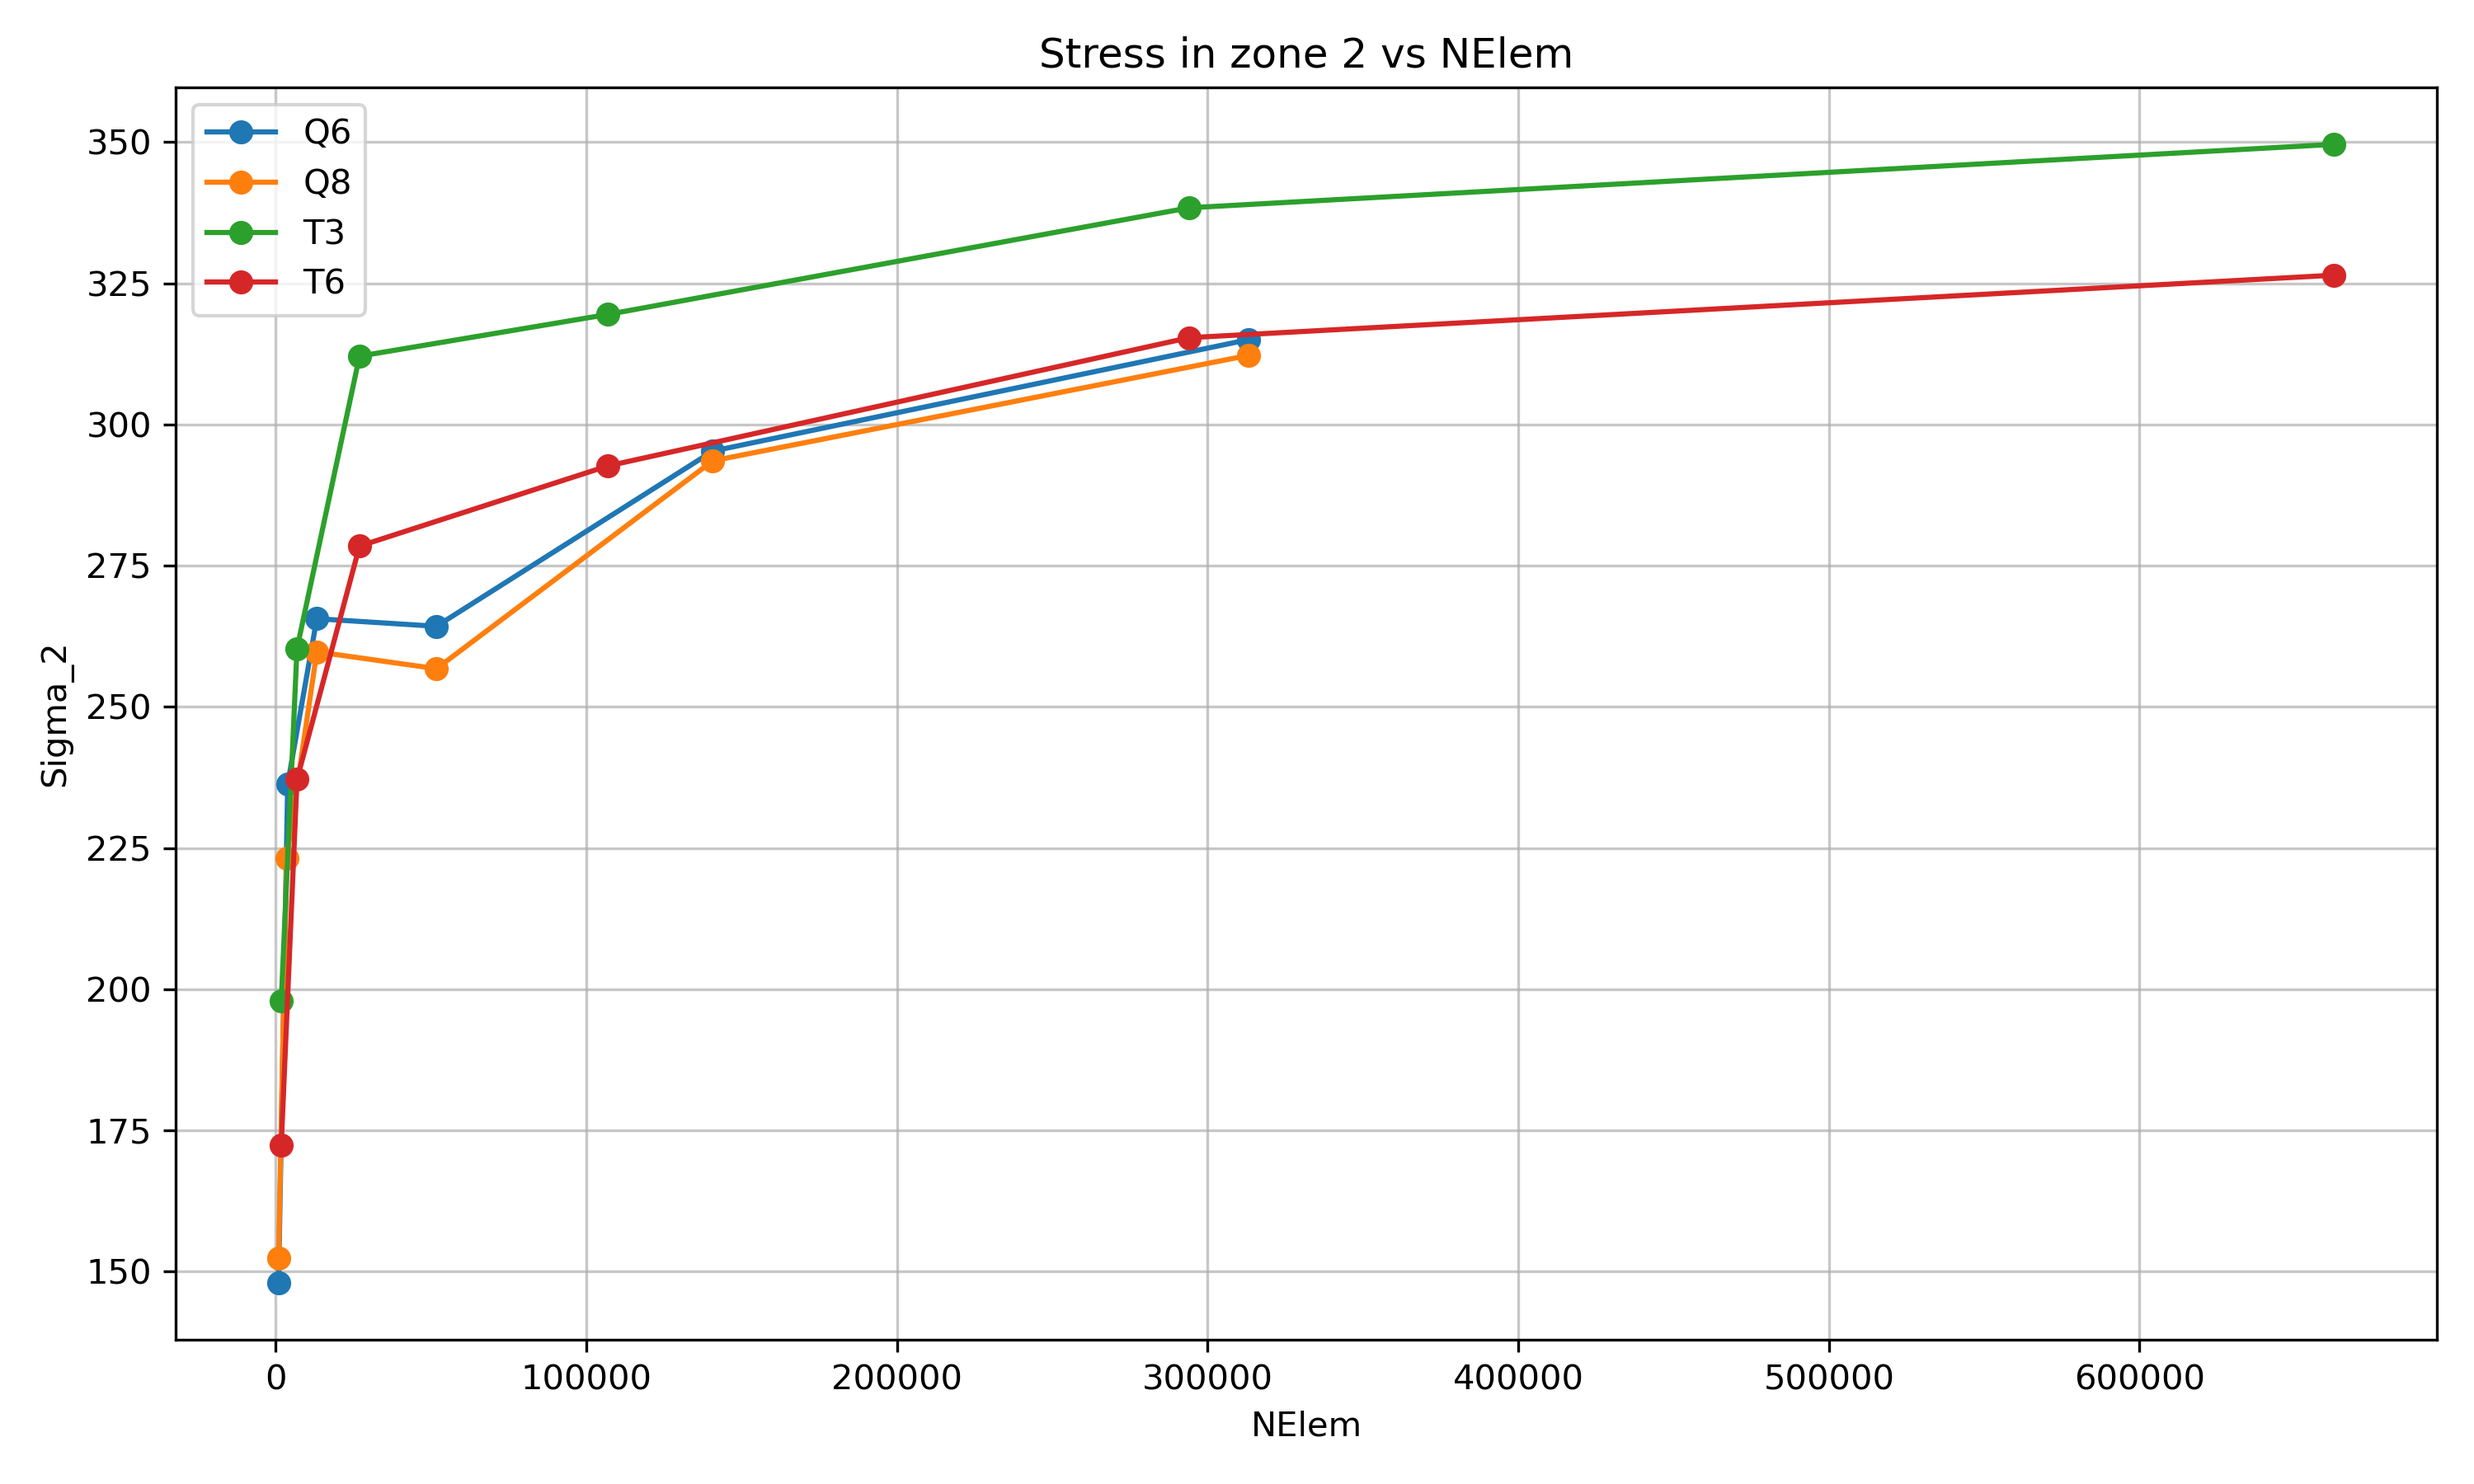
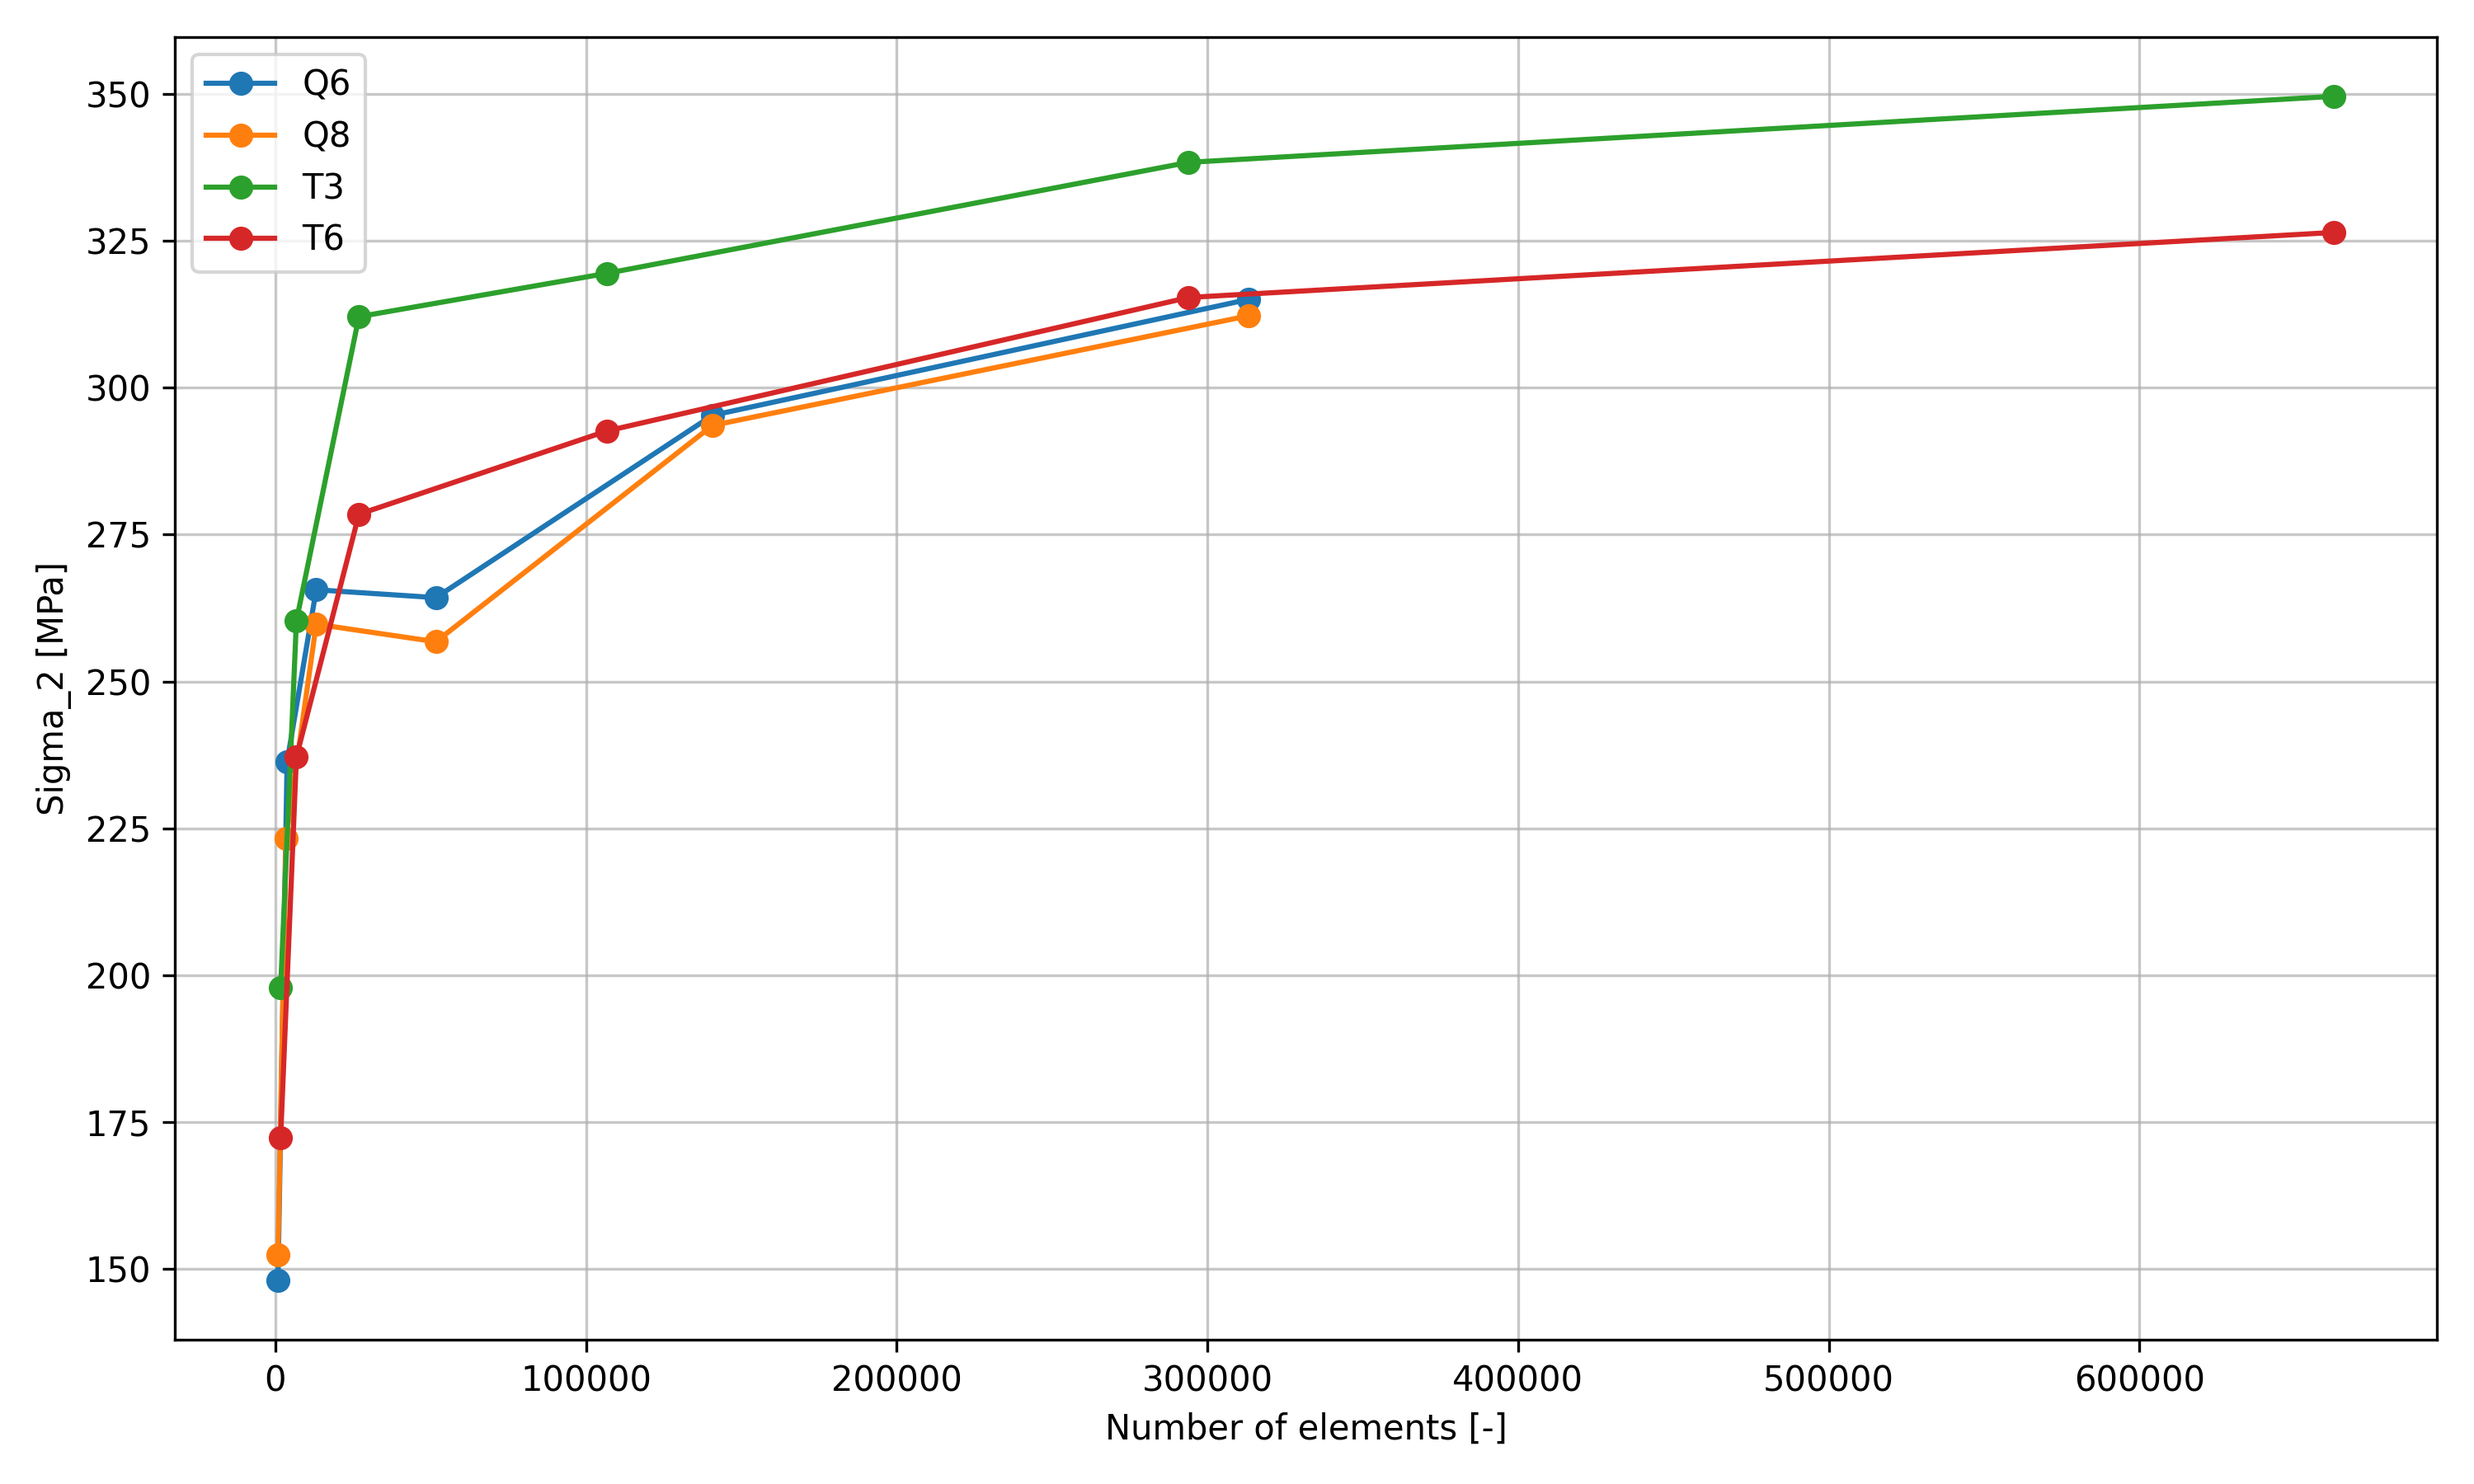
update plotsCSV (axes,titres,...)

diff --git a/2_ FEA coarse meshes/plotCSV.py b/2_ FEA coarse meshes/plotCSV.py
@@ -19,7 +19,7 @@ for folder in folders:
 
 
 # Fonctions de tracé
-def plot_metric(x_key, y_key, ylabel, title, filename, reference_line=None):
+def plot_metric(x_key, y_key,xlabel, ylabel, title, filename, reference_line=None):
     plt.figure(figsize=(10, 6))
     for folder in folders:
         df = data[folder]
@@ -27,9 +27,9 @@ def plot_metric(x_key, y_key, ylabel, title, filename, reference_line=None):
     if reference_line is not None:
         plt.axhline(reference_line, color='gray',
                     linestyle='--', label='Référence')
-    plt.xlabel(x_key)
+    plt.xlabel(xlabel)
     plt.ylabel(ylabel)
-    plt.title(title)
+    #plt.title(title)
     plt.legend()
     plt.grid(True, alpha=0.7)
     plt.tight_layout()
@@ -38,18 +38,19 @@ def plot_metric(x_key, y_key, ylabel, title, filename, reference_line=None):
 
 
 # Tracés demandés
-plot_metric('NElem', 'TPE', 'TPE', "TPE vs NElem", 'TPE_vs_NElem.png')
-plot_metric('NDOF', 'TPE', 'TPE', "TPE vs NDOF", 'TPE_vs_NDOF.png')
-plot_metric('NElem', 'Area', 'Area', "Area vs NElem",
+plot_metric('NElem', 'TPE','Number of elements [-]', 'TPE [J]', "TPE vs NElem", 'TPE_vs_NElem.png')
+plot_metric('NDOF','TPE','Number of degrees of freedom [-]', 'TPE [J]', "TPE vs NDOF", 'TPE_vs_NDOF.png')
+plot_metric('NElem', 'Area','Number of elements [-]', 'Area [$mm^2$]', "Area vs NElem",
             'Area_vs_NElem.png', reference_line=True_area)
-plot_metric('NDOF', 'Area', 'Area', "Area vs NDOF",
+plot_metric('NDOF', 'Area','Number of degrees of freedom [-]', 'Area [$mm^2$]', "Area vs NDOF",
             'Area_vs_NDOF.png', reference_line=True_area)
-plot_metric('NElem', 'CPU', 'CPU (s)', "CPU vs NElem", 'CPU_vs_NElem.png')
-plot_metric('NDOF', 'CPU', 'CPU (s)', "CPU vs NDOF", 'CPU_vs_NDOF.png')
-# plot_metric('CPU', 'TPE', 'TPE', "TPE vs CPU", 'TPE_vs_CPU.png')
+plot_metric('NElem', 'CPU','Number of elements [-]', 'CPU [s]', "CPU vs NElem", 'CPU_vs_NElem.png')
+plot_metric('NDOF', 'CPU','Number of degrees of freedom [-]', 'CPU [s]', "CPU vs NDOF", 'CPU_vs_NDOF.png')
+plot_metric('TPE', 'CPU','TPE [J]', 'CPU [s]', "TPE vs CPU", 'TPE_vs_CPU.png')
+plot_metric('NElem', 'epsilon_max','Number of elements [-]', 'Displacement [mm]','','Displacement_vs_NElem.png')
 
 # Tracés Sigma_i vs NElem (i = 1 à 6)
 for i in range(1, 7):
     sigma_col = f"Sigma_{i}"
-    plot_metric('NElem', sigma_col, f'{sigma_col}',
+    plot_metric('NElem', sigma_col,'Number of elements [-]', f'{sigma_col} [MPa]',
                 f"Stress in zone {i} vs NElem", f"Stress{i}_vs_NElem.png")
